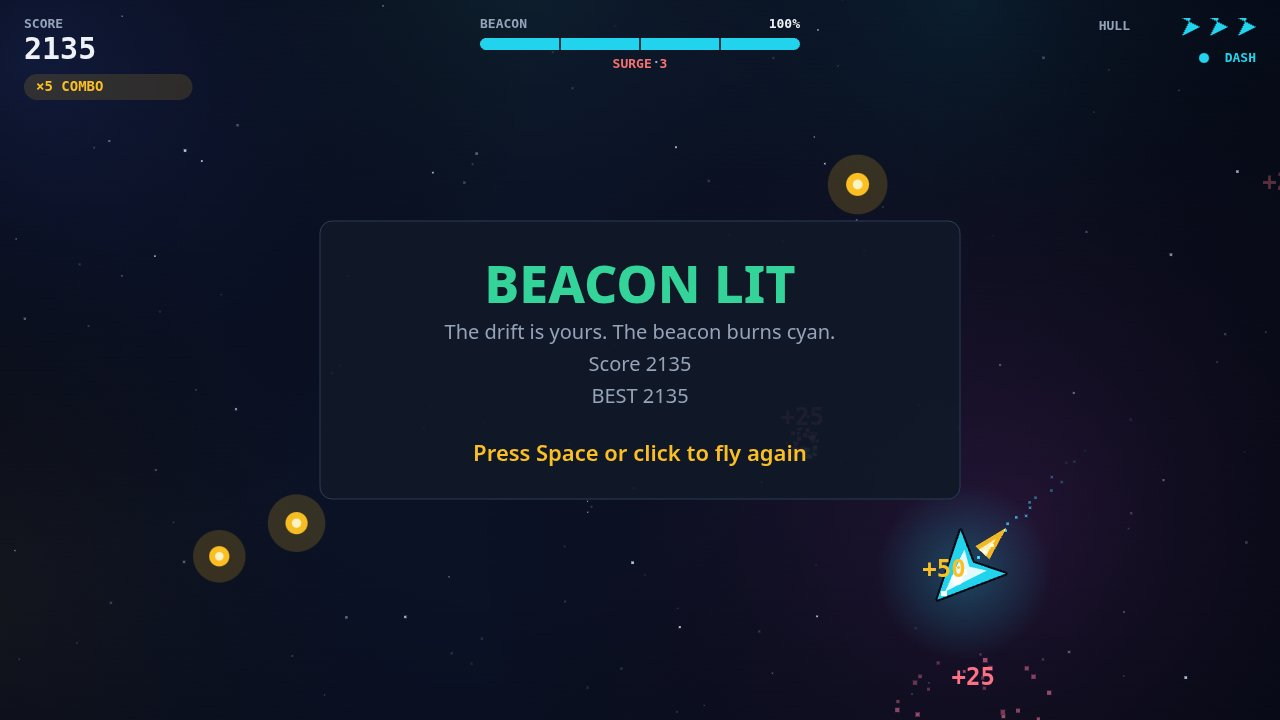
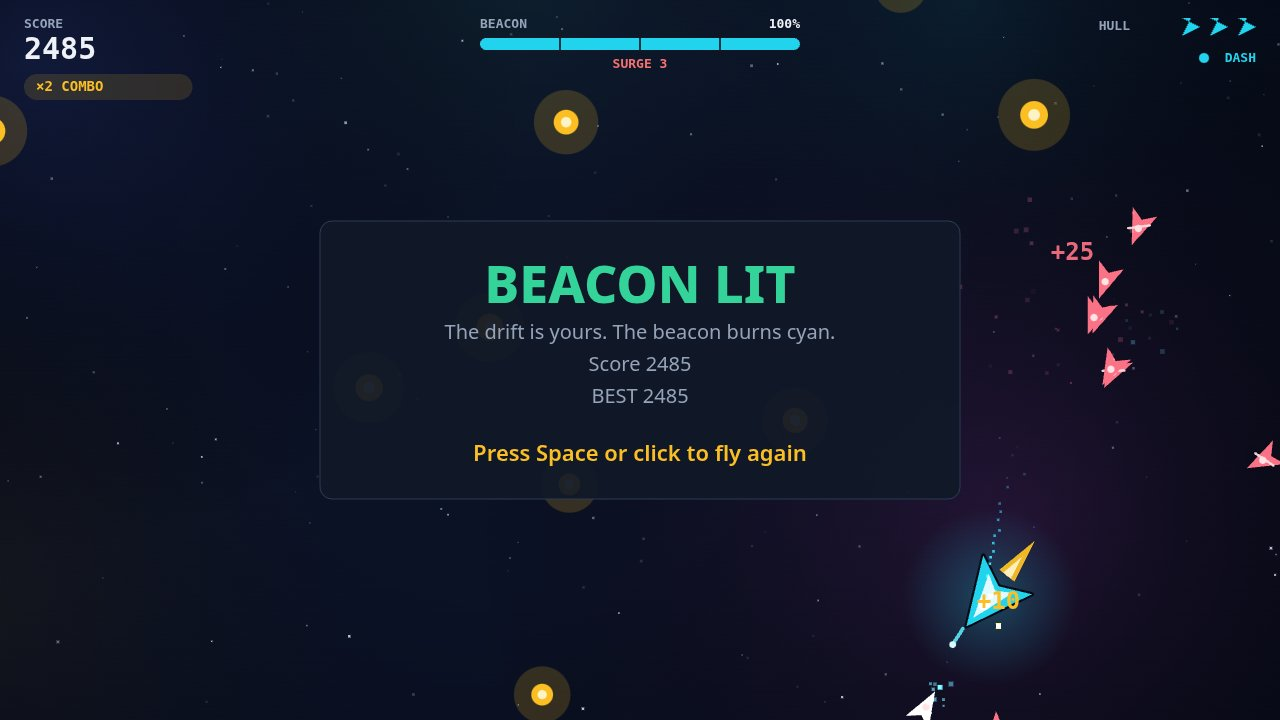
Busier arena: more orbs + drones, re-stage shots

diff --git a/game/src/shots.js b/game/src/shots.js
@@ -2,35 +2,38 @@
 // forward from a fresh world for a fixed time, steered by the autopilot, so the frame is
 // what a short game really looks like and the same seed always gives the same frame.
 
-import { STEP } from './config.js';
+import { FIELD, STEP } from './config.js';
 import { EVENT_OVER, EVENT_WIN } from './world.js';
 import { autopilot } from './autopilot.js';
 import { SCREEN_OVER, SCREEN_PLAY, SCREEN_TITLE, SCREEN_WIN } from './screens.js';
 
+/** The camera window (same 1.2x zoom as the renderer): what the screenshot shows. */
+const CAM_W = FIELD.width / 1.2;
+const CAM_H = FIELD.height / 1.2;
+
 const START_SECONDS = 5;
-const PLAY_SECONDS = 24;
+const PLAY_SECONDS = 14;
 /** Extra seconds past the play mark the stager scans for the best frame. */
-const PLAY_WINDOW_SECONDS = 10;
+const PLAY_WINDOW_SECONDS = 12;
 const WIN_LIMIT_SECONDS = 300;
 const END_LIMIT_SECONDS = 600;
 
 /**
- * How good a frame looks as a still: action near the ship counts most, a centred
- * ship counts next. Drones clipped at the edge of the field do not count.
+ * How good a frame looks as a still: what is actually visible in the camera window
+ * counts most — drones double, since they are the action — and a centred ship
+ * counts next. The pilot shoots drones at range, so a near-ship radius would almost
+ * never see one; the window is what the screenshot shows.
  */
 function frameScore(state) {
   const p = state.player;
   const dc = Math.hypot(p.x - 640, p.y - 360);
+  const cx = Math.min(Math.max(p.x - CAM_W / 2, 0), FIELD.width - CAM_W);
+  const cy = Math.min(Math.max(p.y - CAM_H / 2, 0), FIELD.height - CAM_H);
+  const inWin = (x, y) => x >= cx && x <= cx + CAM_W && y >= cy && y <= cy + CAM_H;
   let near = 0;
-  for (const d of state.drones) {
-    if (d.active && d.y > 24 && d.y < 696 && Math.hypot(d.x - p.x, d.y - p.y) < 340) near += 1;
-  }
-  for (const o of state.orbs) {
-    if (o.active && Math.hypot(o.x - p.x, o.y - p.y) < 340) near += 1;
-  }
-  for (const b of state.bolts) {
-    if (b.active && Math.hypot(b.x - p.x, b.y - p.y) < 340) near += 1;
-  }
+  for (const d of state.drones) if (d.active && inWin(d.x, d.y)) near += 2;
+  for (const o of state.orbs) if (o.active && inWin(o.x, o.y)) near += 1;
+  for (const b of state.bolts) if (b.active && inWin(b.x, b.y)) near += 0.5;
   for (const pp of state.popups) if (pp.active) near += 0.5;
   return near * 100 - dc;
 }

diff --git a/game/src/config.js b/game/src/config.js
@@ -38,27 +38,27 @@ export const BOLT = { radius: 4, speed: 920, life: 1.0 };
 
 export const ORB = {
   radius: 10,
-  interval: 1.0,
-  max: 6,
+  interval: 0.55,
+  max: 12,
   drift: 34,
   /** Seconds an orb floats before it fades out uncollected. */
-  life: 12,
+  life: 14,
   points: 10,
 };
 
 export const DRONE = {
   radius: 13,
-  hp: 2,
+  hp: 3,
   points: 25,
   /** Steering accel toward the ship, and top speed, at surge 0; both grow per surge. */
   accel: 480,
   accelPerSurge: 100,
-  maxSpeed: 165,
+  maxSpeed: 150,
   speedPerSurge: 26,
-  interval: 1.6,
+  interval: 0.8,
   intervalPerSurge: 0.35,
-  minInterval: 0.8,
-  max: 6,
+  minInterval: 0.4,
+  max: 12,
   maxPerSurge: 2,
 };
 
@@ -70,7 +70,7 @@ export const WIN_BONUS = 250;
 export const WIN_PER_HULL = 100;
 
 /** How many of each thing can exist at once; the pools are allocated once, at boot. */
-export const POOLS = { orbs: 24, drones: 32, bolts: 48, particles: 512, popups: 24 };
+export const POOLS = { orbs: 36, drones: 48, bolts: 64, particles: 512, popups: 32 };
 
 /**
  * Palette. One accent (cyan) carries the ship, the beacon and the primary text;
